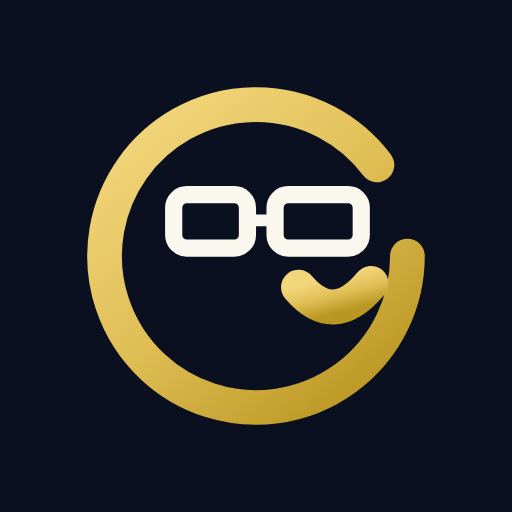
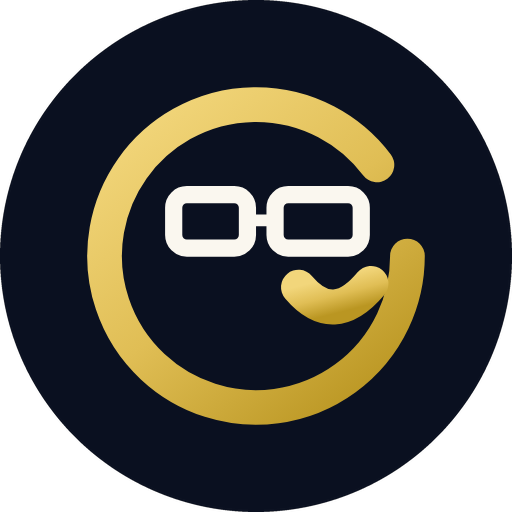
docs: show each mark once -- SpeakPower, the two GRIOT marks, SpeakPower
The README was showing SpeakPower twice, the Signature twice and the G
twice: the header carried a logo and a hero mark, "The marks" repeated
both at a larger size, and the footer repeated the G again. Three marks
across six images is noise, not hierarchy.

Each mark now appears exactly once, in order down the page:

  1. SpeakPower logo, opening the README as before
  2. the GRIOT Signature and the G, side by side on one line, captioned
     with their roles
  3. SpeakPower logo closing it as the builder

"The marks" keeps the documented hierarchy but drops its images, since
every mark is already shown above; the roles are now a compact table.

Also crops the G's backing to a disc. Beside the circular Signature it
was a hard black square, and two different silhouettes on one line read
as a mismatch rather than a pair. Same artwork, transparent corners. The
file is used only by this README -- the in-app avatar is the inline SVG
in app.js -- so no app surface changes.

Header and footer rendered and inspected; 68 tests pass.

Claude-Session: https://claude.ai/code/session_01UsjHGpVE4WcKCMj4S9TRM9

diff --git a/README.md b/README.md
@@ -1,16 +1,18 @@
 <div align="center">
 
-<img src="docs/speakpower-logo.png" alt="SpeakPower" width="130" />
-
-### SpeakPower
-
-<br/>
-
-<img src="griot-os/app/static/brand/griot-signature.png" alt="GRIOT" width="190" />
+<img src="docs/speakpower-logo.png" alt="SpeakPower" width="140" />
 
 # GRIOT OS
 
 **Strategic intelligence &amp; execution agent**
+
+<img src="griot-os/app/static/brand/griot-signature.png" alt="The GRIOT Signature" width="150" />
+&nbsp;&nbsp;&nbsp;
+<img src="griot-os/app/static/brand/griot-g.png" alt="The G" width="110" />
+
+<sub>THE SIGNATURE — the brand mark &nbsp;·&nbsp; THE G — the agent's face, in-app only</sub>
+
+<br/>
 
 *Think like a strategist. Validate like a data scientist. Build like a software engineer.*<br/>
 *Communicate like a storyteller. Operate like an owner.*
@@ -34,60 +36,19 @@
 
 ## The marks
 
-Three marks, three jobs. The hierarchy is deliberate and nothing here is interchangeable.
+Three marks, three jobs, shown once each above. Nothing here is interchangeable.
 
-<table>
-<tr>
-<td colspan="2" align="center">
-<img src="docs/speakpower-logo.png" alt="SpeakPower" width="150" /><br/><br/>
-<strong>SpeakPower</strong><br/>
-<sub>THE PARENT BRAND</sub>
-</td>
-</tr>
-<tr>
-<td colspan="2" valign="top">
-The company. GRIOT OS is a SpeakPower product and is presented as one — the logo leads
-this README, and the attribution sits in the app sidebar and in the page metadata.
-This mark is never replaced by a GRIOT mark; the two sit in a hierarchy, parent above
-product.
-</td>
-</tr>
-</table>
+| Mark | Role | Where it is used |
+|:--|:--|:--|
+| **SpeakPower** | The parent brand | Opens and closes this README; the attribution in the app sidebar and page metadata. Never replaced by a GRIOT mark |
+| **The GRIOT Signature** | GRIOT's brand mark | Browser tab, app icons, app sidebar, social card, decks. Identifies the product; does not stand in for SpeakPower |
+| **The G** | The agent's face | Inside the app only, as the avatar beside GRIOT's replies. Not a logo, and on no branding surface |
 
-<table>
-<tr>
-<td width="50%" align="center">
-<img src="griot-os/app/static/brand/griot-signature.png" alt="The GRIOT Signature" width="200" /><br/><br/>
-<strong>The GRIOT Signature</strong><br/>
-<sub>THE BRAND MARK</sub>
-</td>
-<td width="50%" align="center">
-<img src="griot-os/app/static/brand/griot-g.png" alt="The G symbol" width="150" /><br/><br/>
-<strong>The G</strong><br/>
-<sub>THE AGENT'S FACE</sub>
-</td>
-</tr>
-<tr>
-<td valign="top">
-Introduces GRIOT. It is the only <em>GRIOT</em> mark used for branding — the
-browser tab, the app icons, the sidebar, the social card, decks and merchandise.
-It identifies the product; it does not stand in for SpeakPower.
-<br/><br/>
-At tab sizes the medallion is cropped past its decorative band so the face
-survives the downscale, with the gold rim keeping its circular silhouette. Same
-mark, drawn for the size it is used at.
-</td>
-<td valign="top">
-Lives inside the product only, as the avatar beside everything GRIOT says.
-<br/><br/>
-It blinks on its own, and blinks faster with its smile moving while the agent is
-working. It sits on a navy disc so the white spectacle frames read against a
-light reply bubble.
-<br/><br/>
-It is <strong>not</strong> a logo and does not appear in any branding surface.
-</td>
-</tr>
-</table>
+At tab sizes the Signature is cropped past its decorative band so the face survives the
+downscale, with the gold rim keeping its circular silhouette — the same mark, drawn for the
+size it is used at. The G blinks on its own and blinks faster with its smile moving while the
+agent is working; it sits on a navy disc so the white spectacle frames read against a light
+reply bubble.
 
 ---
 
@@ -367,9 +328,11 @@ Agent-facing engineering rules: [`AGENTS.md`](AGENTS.md) · Persona and tone: [`
 
 <div align="center">
 
-<img src="griot-os/app/static/brand/griot-g.png" alt="" width="54" />
+<img src="docs/speakpower-logo.png" alt="SpeakPower" width="100" />
 
-<sub>Built by **Thomas Otieno** · A product of **SpeakPower**</sub><br/>
+**Built by SpeakPower**
+
+<sub>GRIOT OS is a product of **SpeakPower** · Thomas Otieno</sub><br/>
 <sub><i>Articulate is key.</i></sub>
 
 </div>
